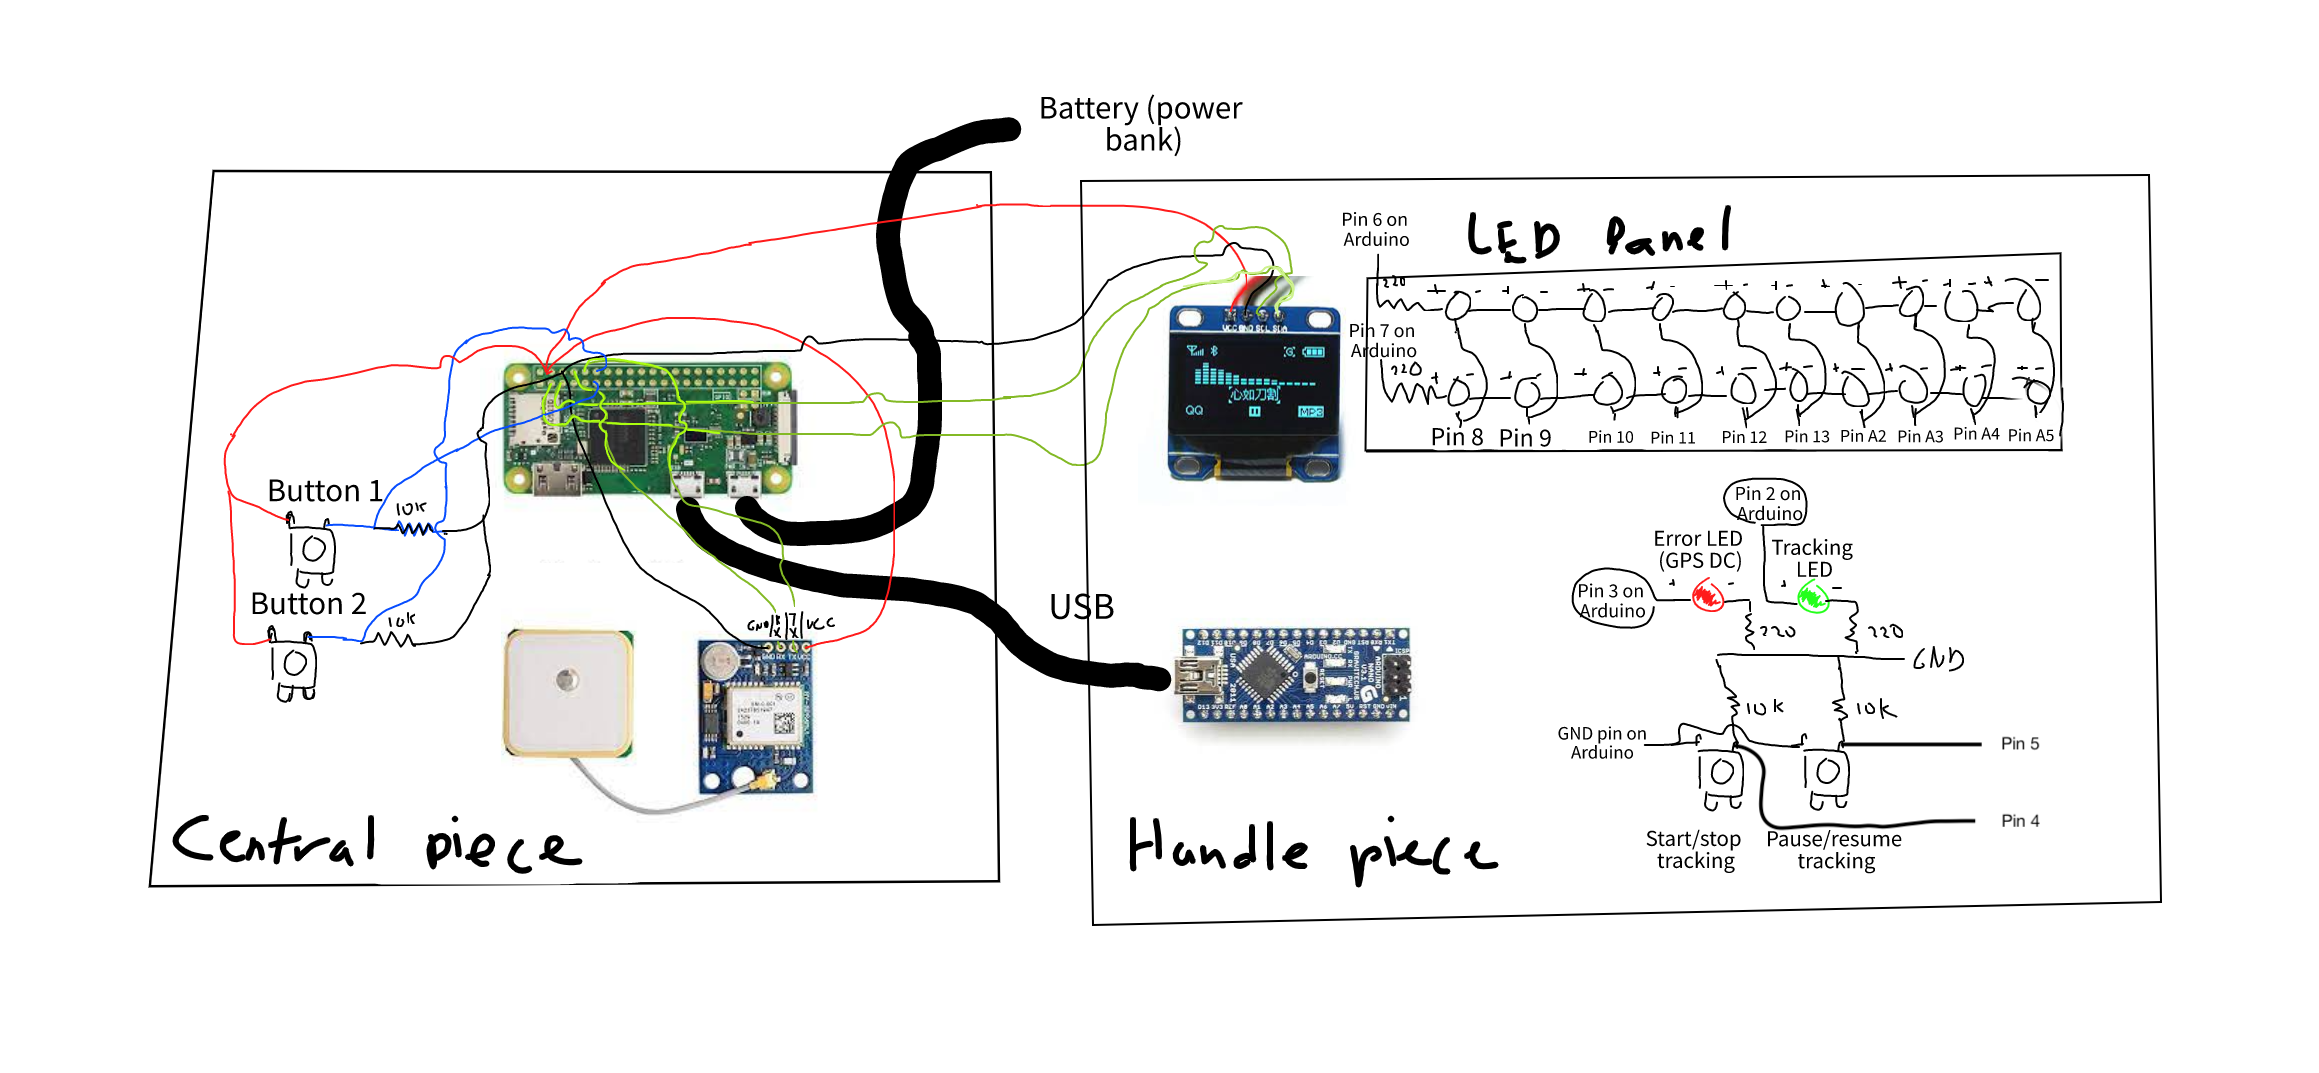
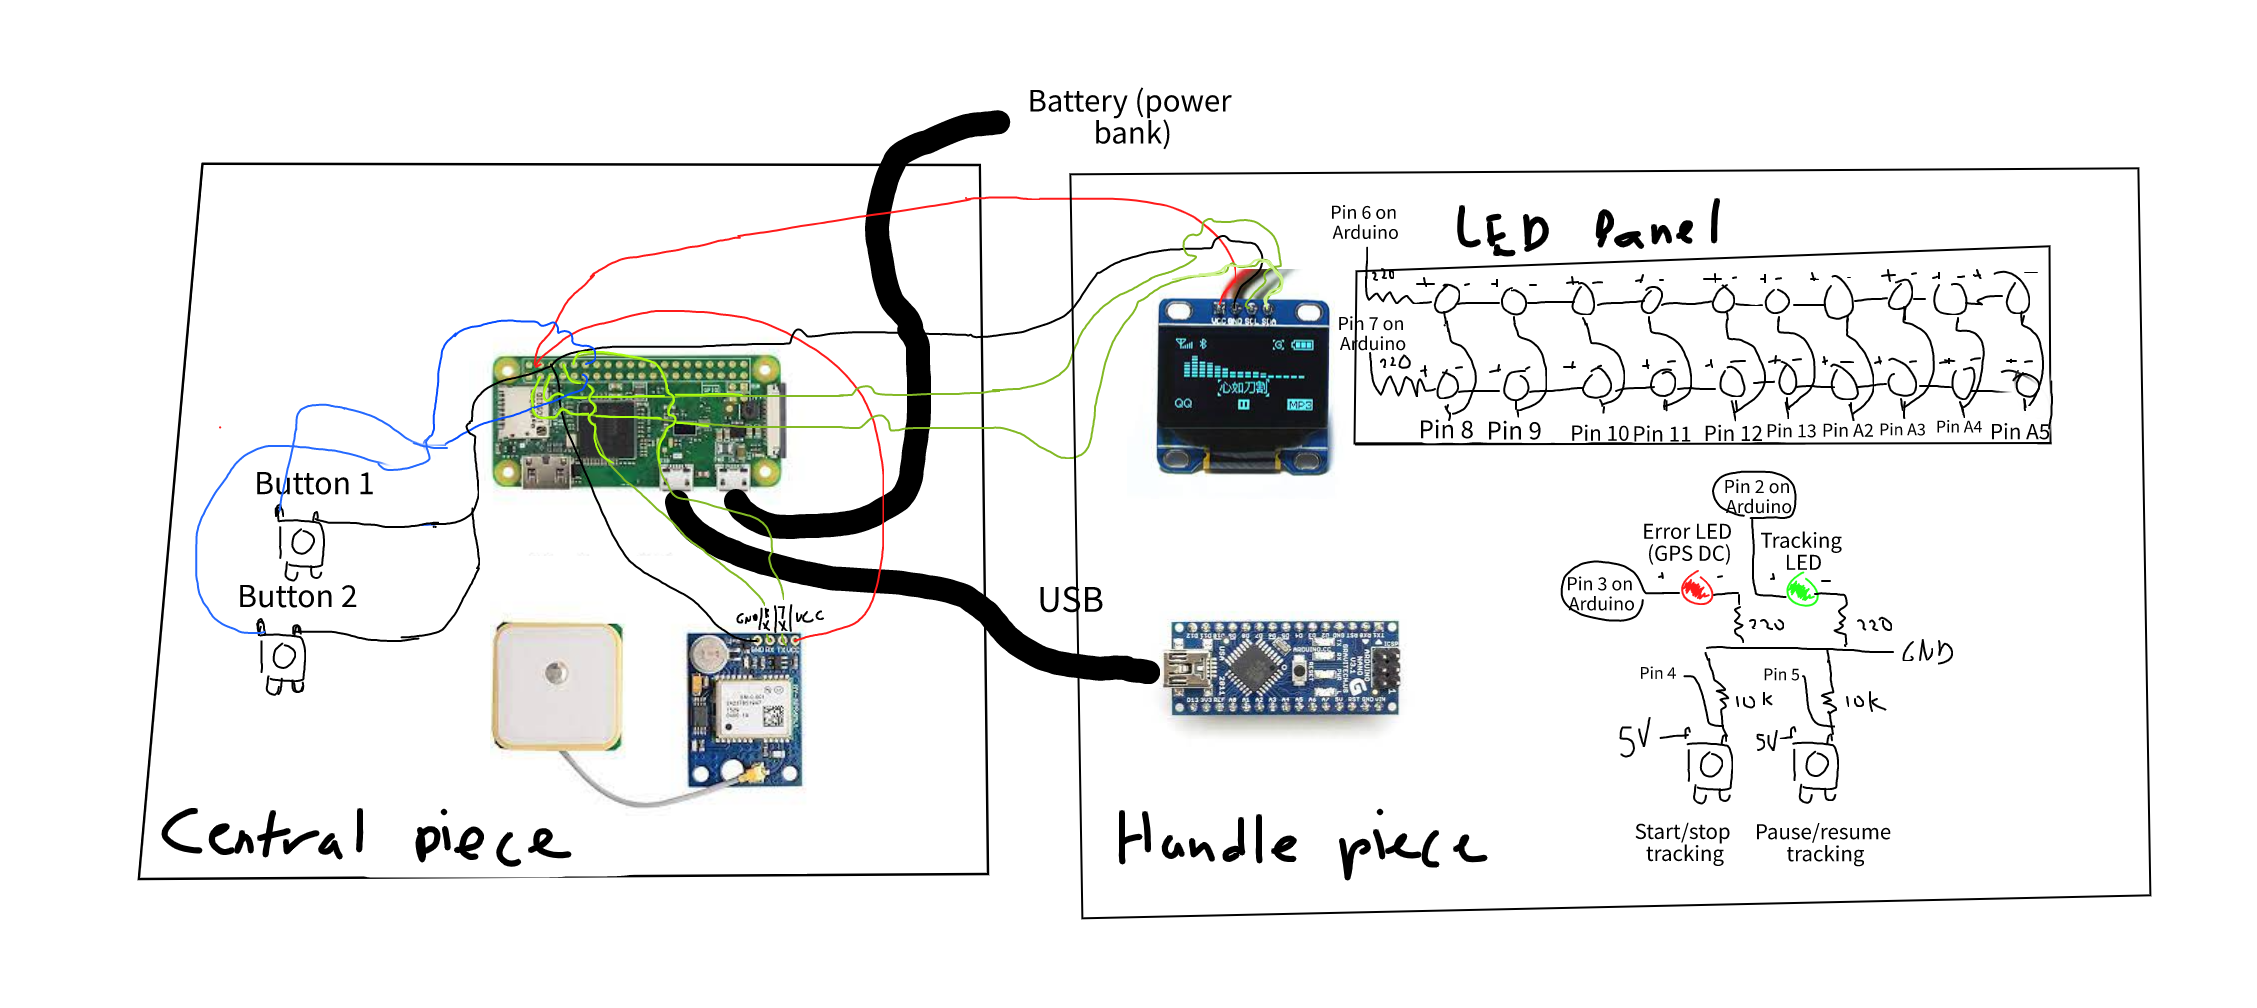
added wiring instructions

diff --git a/hardware/schematics/README.md b/hardware/schematics/README.md
@@ -1,0 +1,33 @@
+# Wiring
+
+![wiring diagram](/docs/img/bd_schematic_clear.png)
+This is the wiring diagram. Go [here](/docs/img/bd_schematic_clear.png) for a clearer image.
+
+## Raspberry Pi
+The left side of the arrow is the pin on the component and the right side is the pin on the Raspberry Pi. For example, `VCC -> 5V` on the GPS would mean to wire `VCC` on the GPS to `5V` on the Raspberry Pi.
+
+1. The GPS
+    - `VCC -> 5V`
+    - `GND -> GND`
+    - `TX -> RX` or `GPIO 15`
+    - `RX -> TX` or `GPIO 14`
+2. The OLED
+    - `VCC -> 5V`
+    - `GND -> GND`
+    - `SCL -> SCL` or `GPIO 3`
+    - `SDA -> SDA` or `GPIO 2`
+3. Button 1:
+    - Wire one pin to `GPIO 17`
+    - Wire the pin across from it to `GND`
+4. Button 2:
+    - Do the same with button 1 but to `GPIO 18` instead of `17`
+
+## Arduino
+1. Error LED: Wire the positive side to `D3` on the Arduino and the negative side to a 220 ohm resistor to ground.
+2. Tracking LED: Wire the positive side to `D2` on the Arduino and the negative side to a 220 ohm resistor to ground.
+3. Start/stop tracking button: Wire one pin to 5V. Wire the pin across from it to `D4`, and wire the same pin to a 10k ohm resistor to ground.
+4. Pause/resume tracking button: Do the same as above but wire it to `D5` instead of `D4`.
+5. LED Panel: See picture above. The negative pins of the LEDs get wired to the pins below (pins 8-A5). That is, the wire coming out from the bottom side of an LED in the diagram gets wired to the negative pin of that LED.
+
+Lastly, connect the Raspberry Pi and the Arduino using a USB cable.
+
